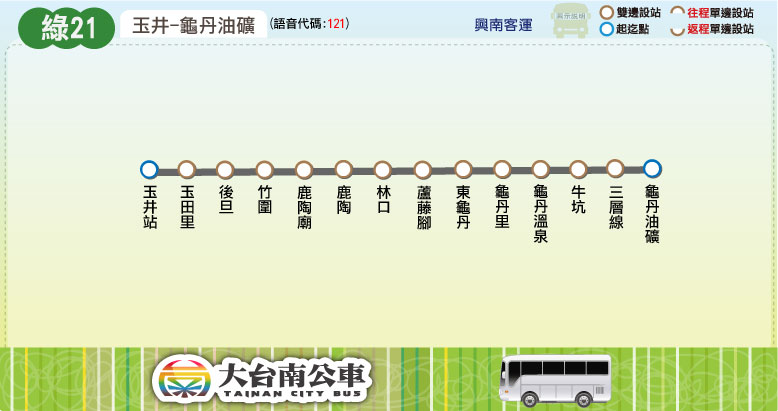
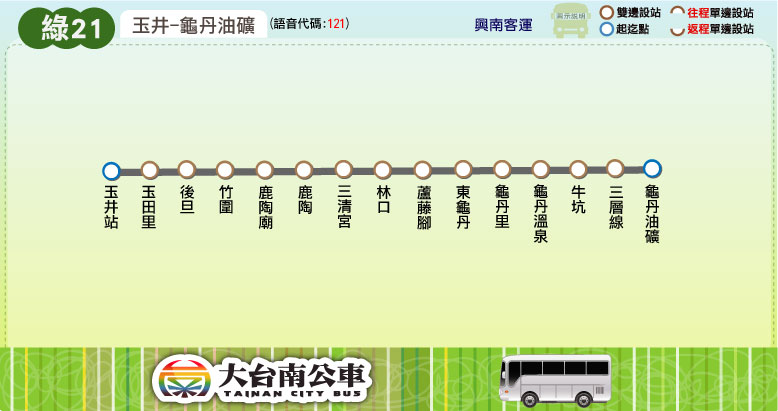
新增站點：綠21「三清宮」

diff --git a/route/fare_and_time/green_21.js b/route/fare_and_time/green_21.js
@@ -2,7 +2,7 @@ green_21_interval_name = ["玉井","鹿陶洋","龜丹里","龜丹<br />油礦"]
 green_21_interval_stop = [
 ["玉井站","玉田里"], // 玉井
 ["後旦","竹圍","鹿陶廟","鹿陶"], // 鹿陶洋
-["林口","蘆藤腳","東龜丹","龜丹里"], // 龜丹里
+["三清宮","林口","蘆藤腳","東龜丹","龜丹里"], // 龜丹里
 ["龜丹溫泉","牛坑","三層線","龜丹油礦"] // 龜丹油礦
 ];
 green_21_stop_time_consume = [0,2,3,5,6,7,9,10,11,13,15,17,18,20];
